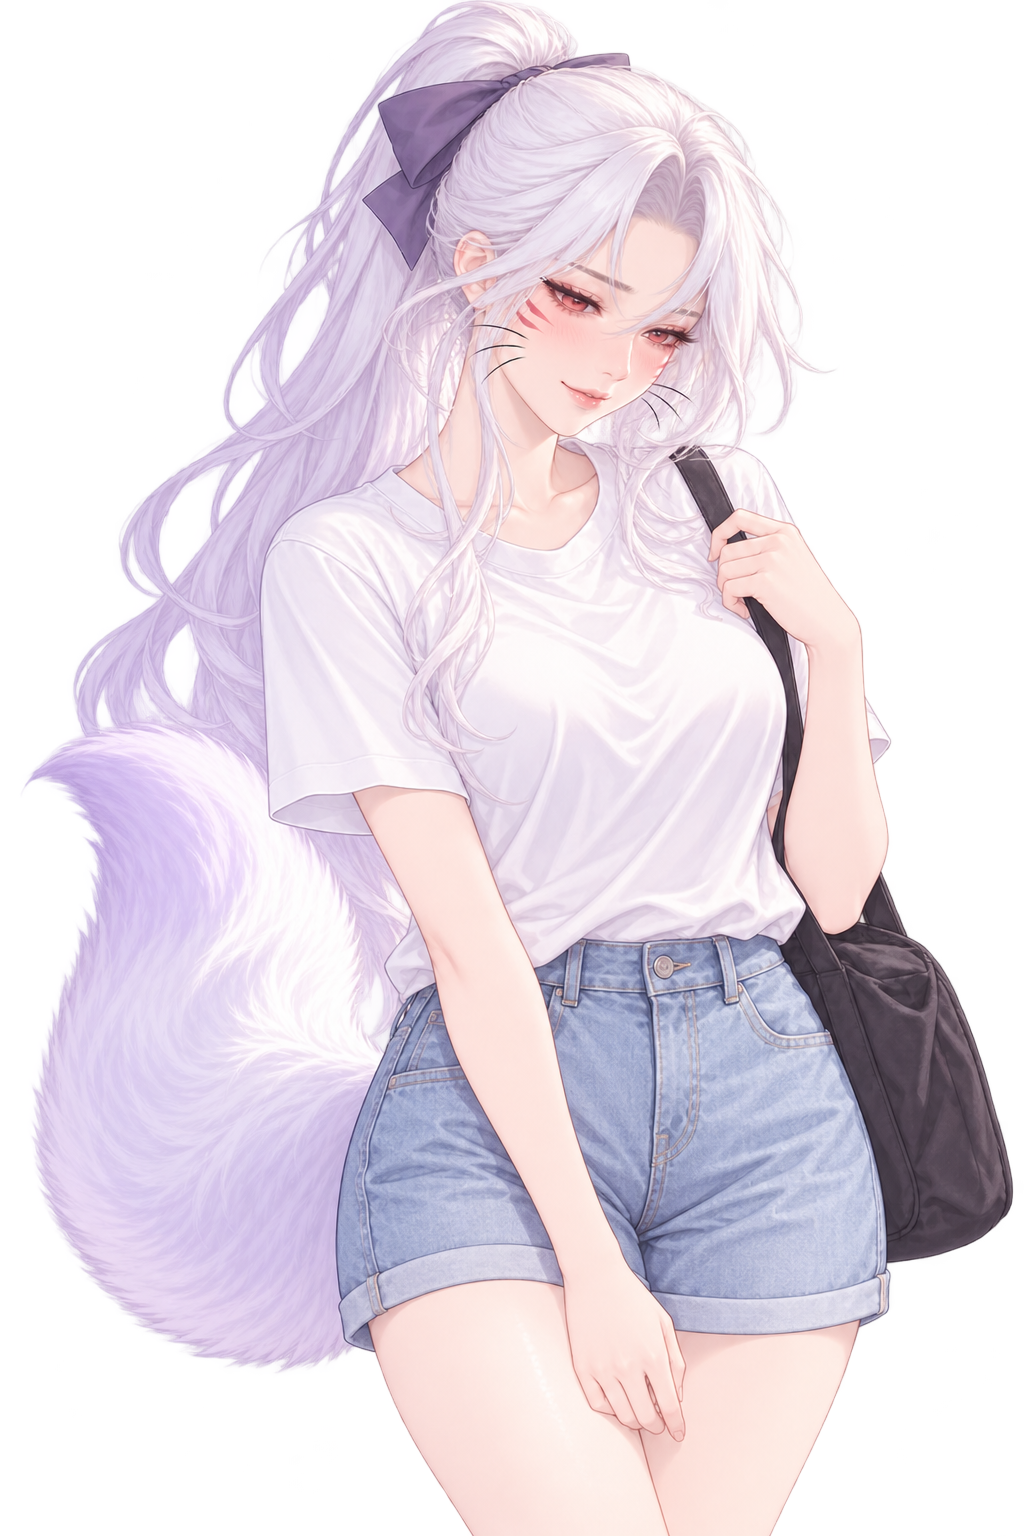
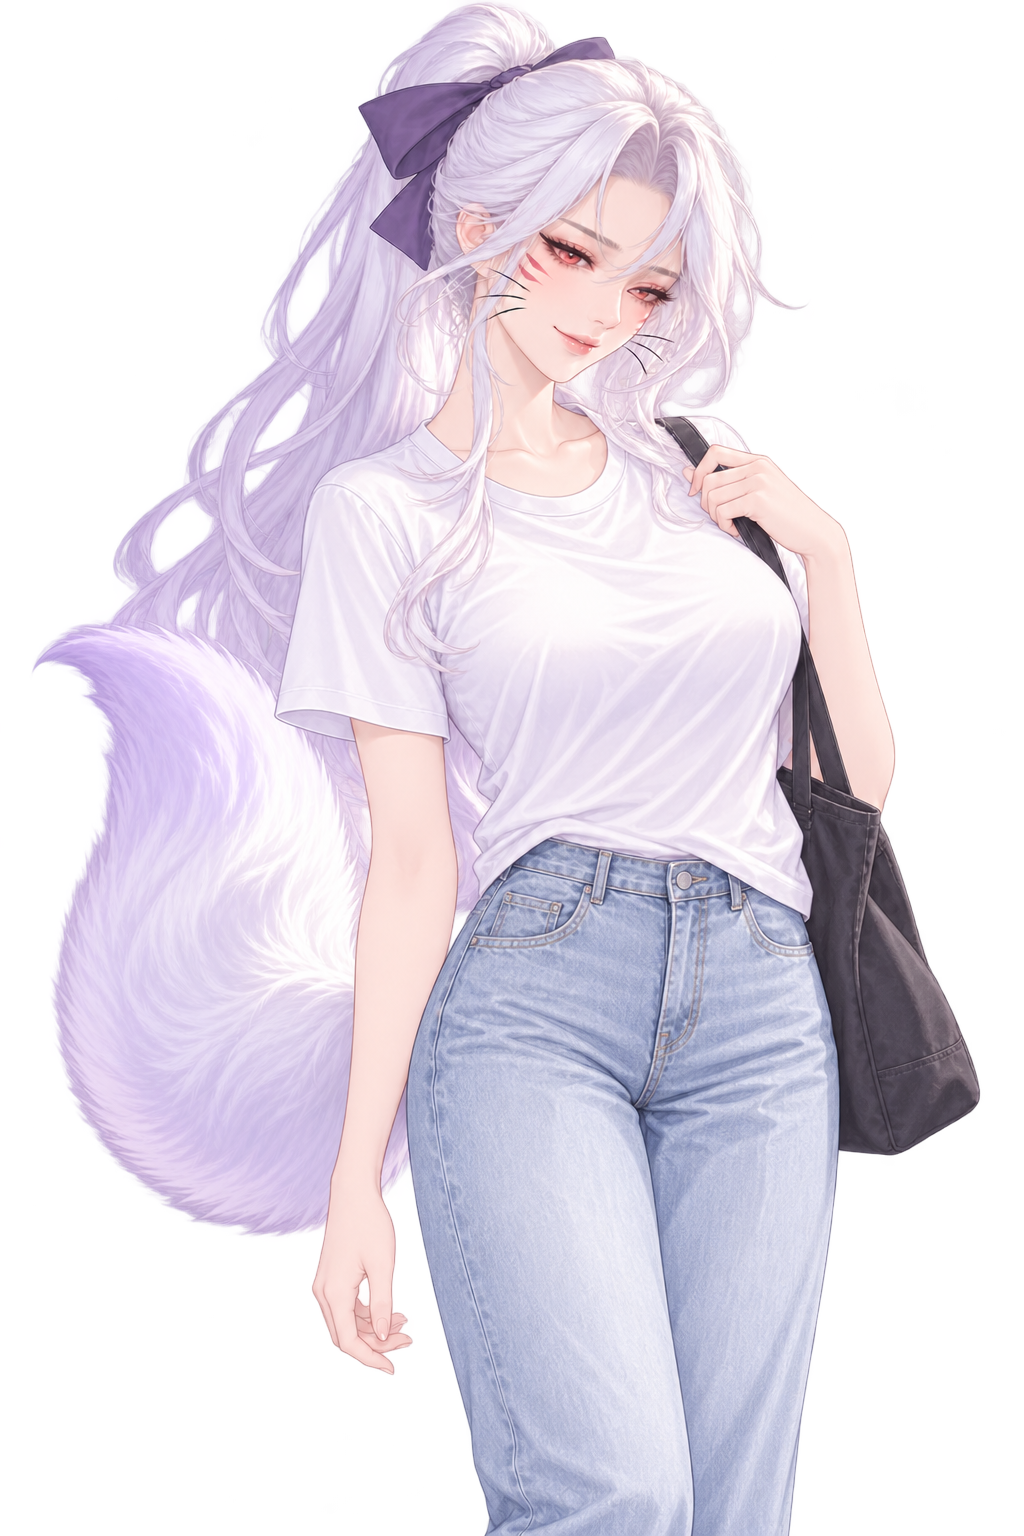
편한 자유의상 청바지 이미지 여섯 장 교체

diff --git a/docs/illustration-replacement-prompts.md b/docs/illustration-replacement-prompts.md
@@ -89,9 +89,9 @@ CG는 공통 CG 블록과 파일별 장면 프롬프트를 이어 붙인다. 무
 
 ### CH12 자유 의상 C1 세트
 
-의상 블록: 넉넉한 흰색 반소매 티셔츠, 무릎 길이의 연한 청색 데님 반바지, 검정 캔버스 숄더백. 노출이나 몸매 강조 없이 편안한 주말 외출복.
+의상 블록: 넉넉한 흰색 반소매 티셔츠, 발목까지 오는 연청 스트레이트 데님 청바지, 검정 캔버스 숄더백. 반바지가 아닌 긴 청바지이며 노출이나 몸매 강조 없이 편안한 주말 외출복.
 
-공통 구도: 2:3 세로 캔버스에서 머리 위부터 무릎 바로 위까지 보이는 무릎 위 구도. 발과 종아리는 프레임에 넣지 않고 인물 크기를 여섯 장 모두 통일한다.
+공통 구도: 2:3 세로 캔버스에서 머리 위부터 정강이 아래까지 보이는 구도. 긴 청바지 기장이 분명히 보이도록 하되 발은 프레임에서 제외하고, 인물 크기와 크롭을 여섯 장 모두 통일한다.
 
 | 파일 | 개별 표정·포즈 프롬프트 |
 |---|---|
